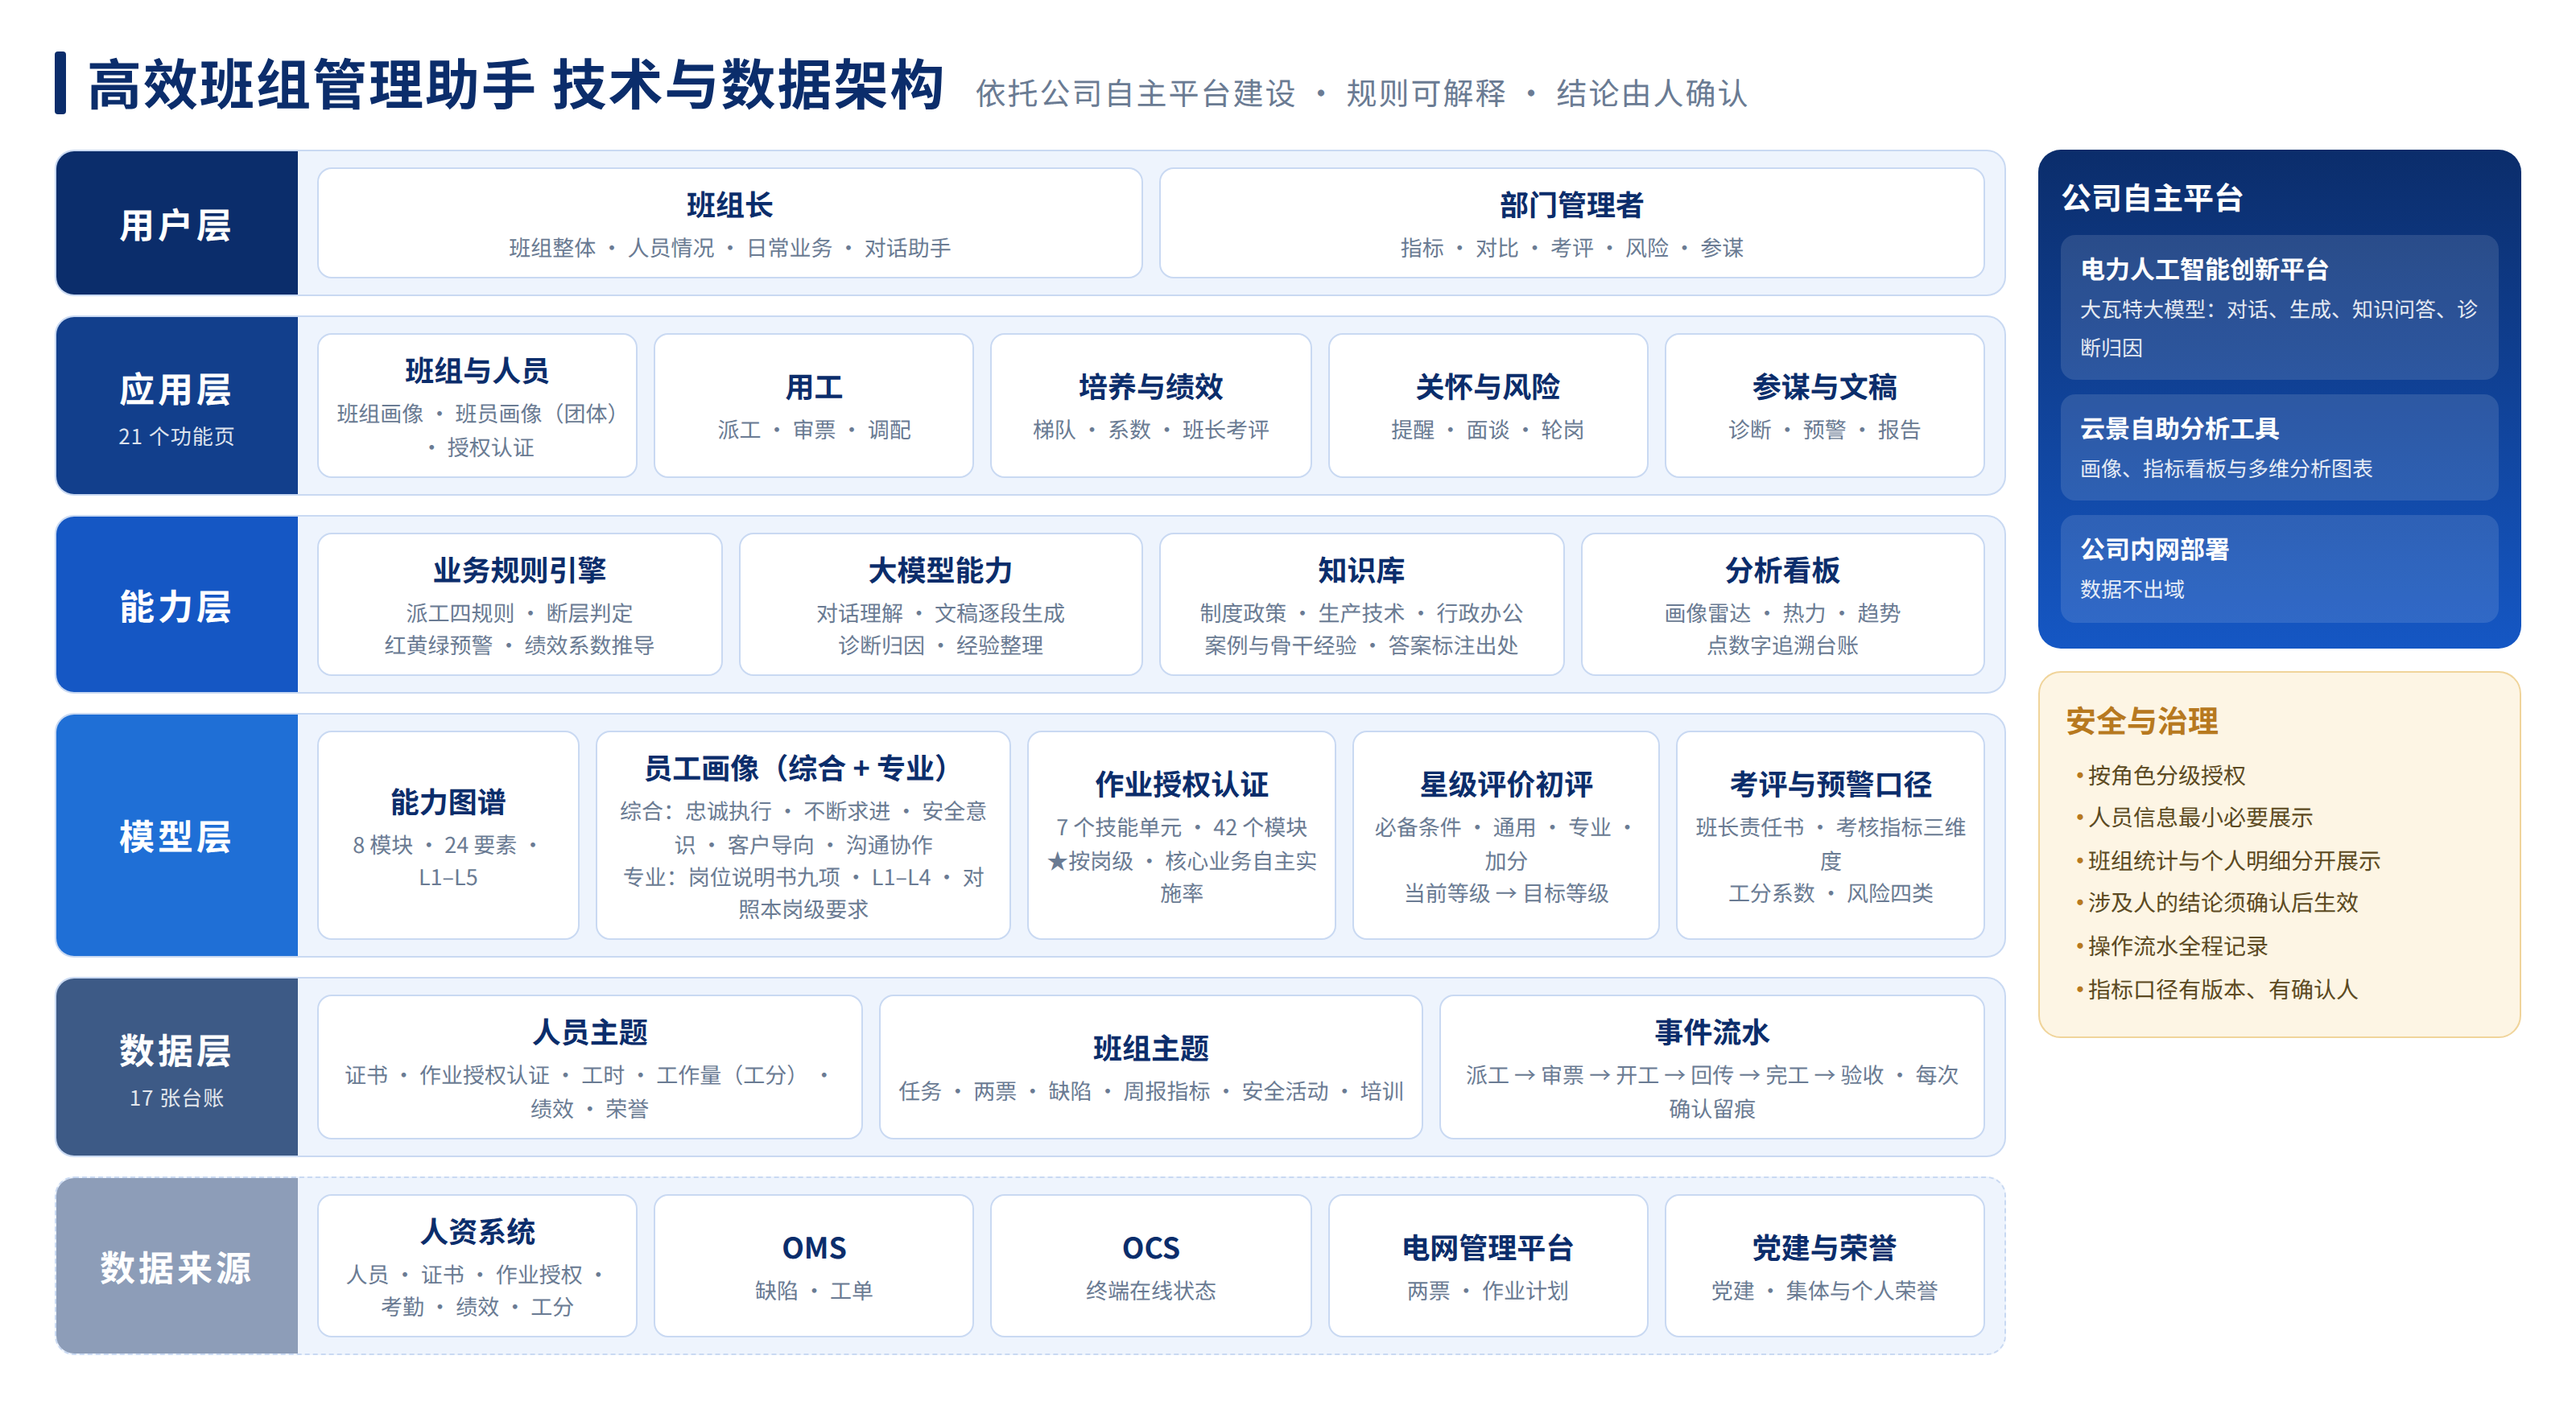
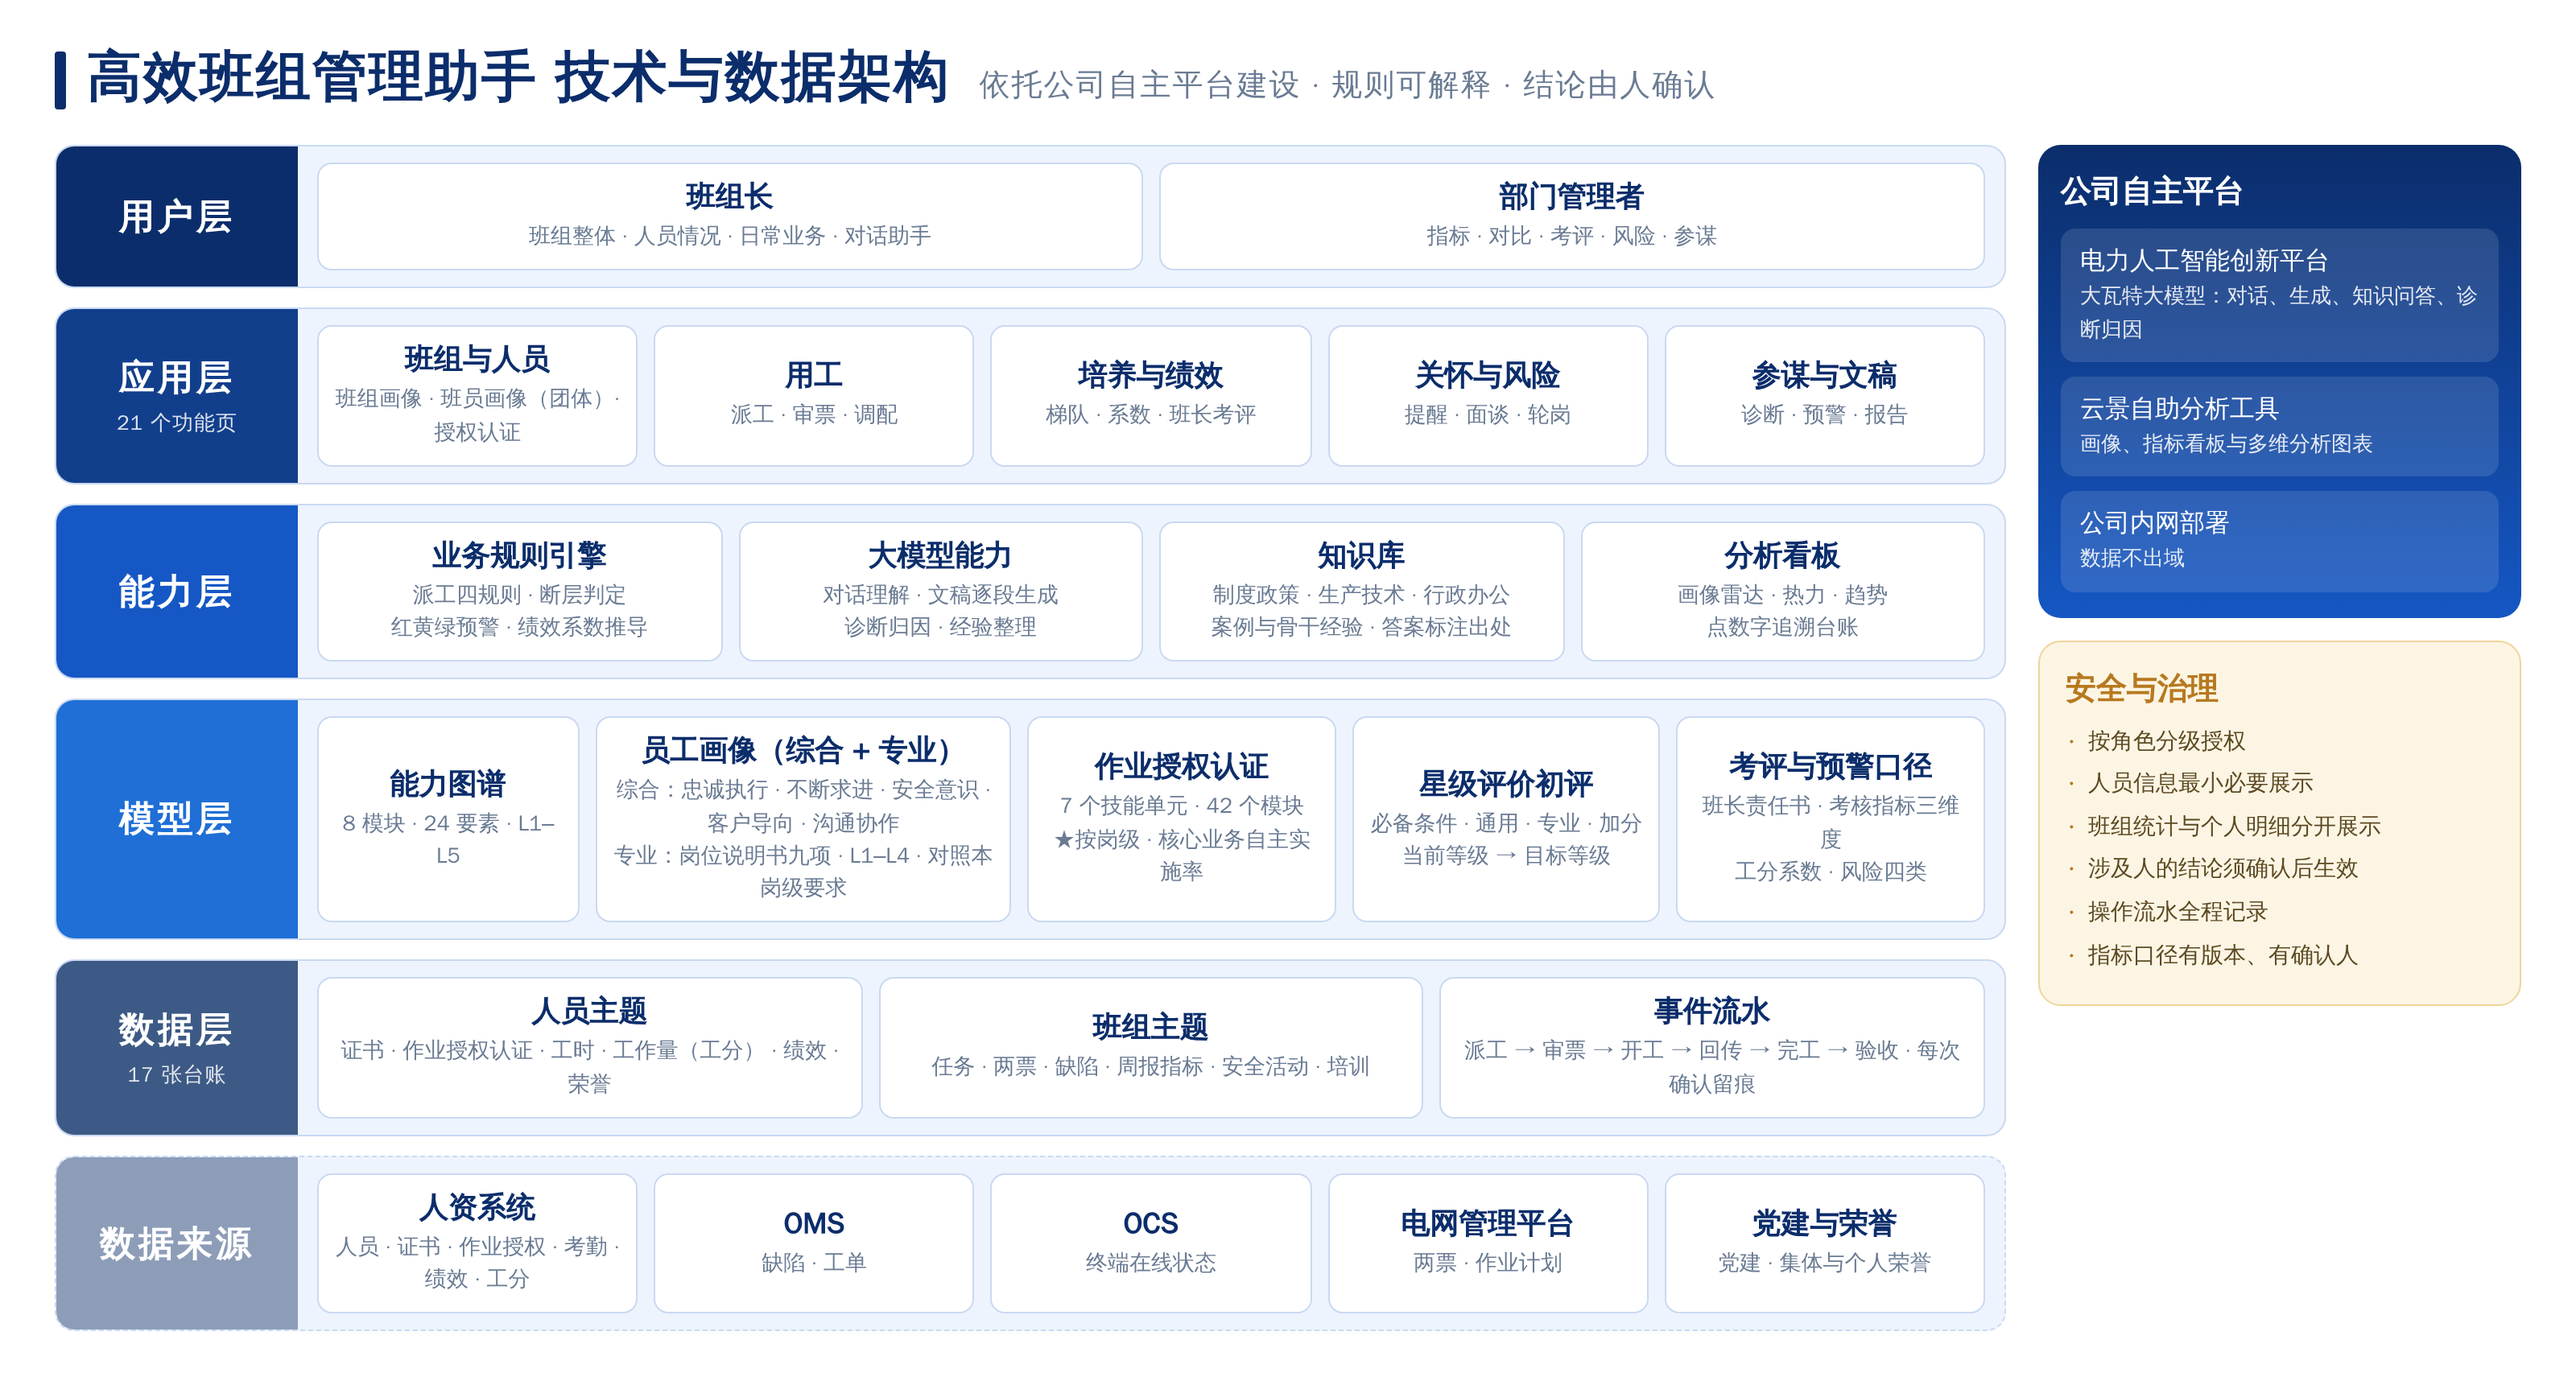
班组长架构图：小瓦特→大瓦特，去掉扩展模块占位，重出三张图
Claude-Session: https://claude.ai/code/session_01WkwtRBhr3xVnGf8uEM4Pxz

diff --git a/xiaowatt/banzu/diagrams/biz.html b/xiaowatt/banzu/diagrams/biz.html
@@ -25,17 +25,17 @@
 <div class="ttl"><h1>高效班组管理助手 业务架构</h1><span>两级用户 · 一个数据底座 · 队伍建设六环闭环</span></div>
 <div class="roles"><div class="rbar"><b>班组长</b><span>班组荣誉 → 人员情况 → 业务工作</span></div><div class="rbar"><b>部门管理者</b><span>指标跟踪 · 班组对比 · 班长考评 · 风险防控 · 人力配置</span></div></div>
 <div class="mid">
-  <div class="panel"><h3>班组长端<em>12 个功能页 + 4 个扩展模块</em></h3>
+  <div class="panel"><h3>班组长端<em>12 个功能页</em></h3>
     <div class="grp">班组整体 · 荣誉与发展</div><div class="grid3c"><div class="chip">班组画像</div></div>
     <div class="grp">人员情况 · 团体为主、个人下钻</div><div class="grid3c"><div class="chip">班员画像</div><div class="chip">授权认证</div><div class="chip">培养与梯队</div><div class="chip">绩效与激励</div><div class="chip">关怀与文化</div><div class="chip">分析参谋</div></div>
-    <div class="grp">日常业务 · 工作安排</div><div class="grid3c"><div class="chip">今日工作台</div><div class="chip">用工安排</div><div class="chip">知识库</div><div class="chip">台账中心</div><div class="chip">问小瓦特</div><div class="chip mute">扩展模块</div></div></div>
+    <div class="grp">日常业务 · 工作安排</div><div class="grid3c"><div class="chip">今日工作台</div><div class="chip">用工安排</div><div class="chip">知识库</div><div class="chip">台账中心</div><div class="chip">问大瓦特</div></div></div>
   <div class="ring" id="ring"><svg viewBox="0 0 520 500"><circle cx="260" cy="250" r="185" fill="none" stroke="#8fb3ea" stroke-width="2.5" stroke-dasharray="7 7"/></svg>
     <div class="core"><b>队伍建设<br>六环闭环</b><span>数据回写 · 持续提升</span></div></div>
   <div class="panel"><h3>管理者端<em>9 个功能页</em></h3>
     <div class="grp">业务</div><div class="grid2c"><div class="chip">考核指标</div><div class="chip">班组横向对比</div></div>
-    <div class="grp">管理</div><div class="grid2c"><div class="chip">团队画像总览</div><div class="chip">班长绩效</div><div class="chip">人员总览</div><div class="chip">班组结构对比</div><div class="chip">团队风险画像</div><div class="chip">员工关怀</div><div class="chip">分析参谋</div><div class="chip mute">台账 · 问小瓦特</div></div></div>
+    <div class="grp">管理</div><div class="grid2c"><div class="chip">团队画像总览</div><div class="chip">班长绩效</div><div class="chip">人员总览</div><div class="chip">班组结构对比</div><div class="chip">团队风险画像</div><div class="chip">员工关怀</div><div class="chip">分析参谋</div><div class="chip mute">台账 · 问大瓦特</div></div></div>
 </div>
-<div class="ai"><b>小瓦特 AI 助手</b><span>贯穿两端：查数配图 · 决策依据 · 文稿逐段生成 · 诊断归因 · 经验整理　｜　涉及人员评价的结论由班组长或部门确认后使用</span></div>
+<div class="ai"><b>大瓦特 AI 助手</b><span>贯穿两端：查数配图 · 决策依据 · 文稿逐段生成 · 诊断归因 · 经验整理　｜　涉及人员评价的结论由班组长或部门确认后使用</span></div>
 <div class="data"><h3>数据底座<em>十七张班组台账 · 每个数字可追溯至原始记录</em></h3>
   <div class="dchips"><div class="chip">工时</div><div class="chip">资质证书</div><div class="chip">作业授权认证</div><div class="chip">任务</div><div class="chip">缺陷</div><div class="chip">两票</div><div class="chip">周报指标</div><div class="chip">工作量（工分）</div><div class="chip">违章</div>
     <div class="chip">安全活动</div><div class="chip">荣誉</div><div class="chip">培训</div><div class="chip">派工记录</div><div class="chip">跨班组调配</div><div class="chip">值班</div><div class="chip">通知</div><div class="chip">操作流水</div><div class="chip dark">17 张</div></div>
